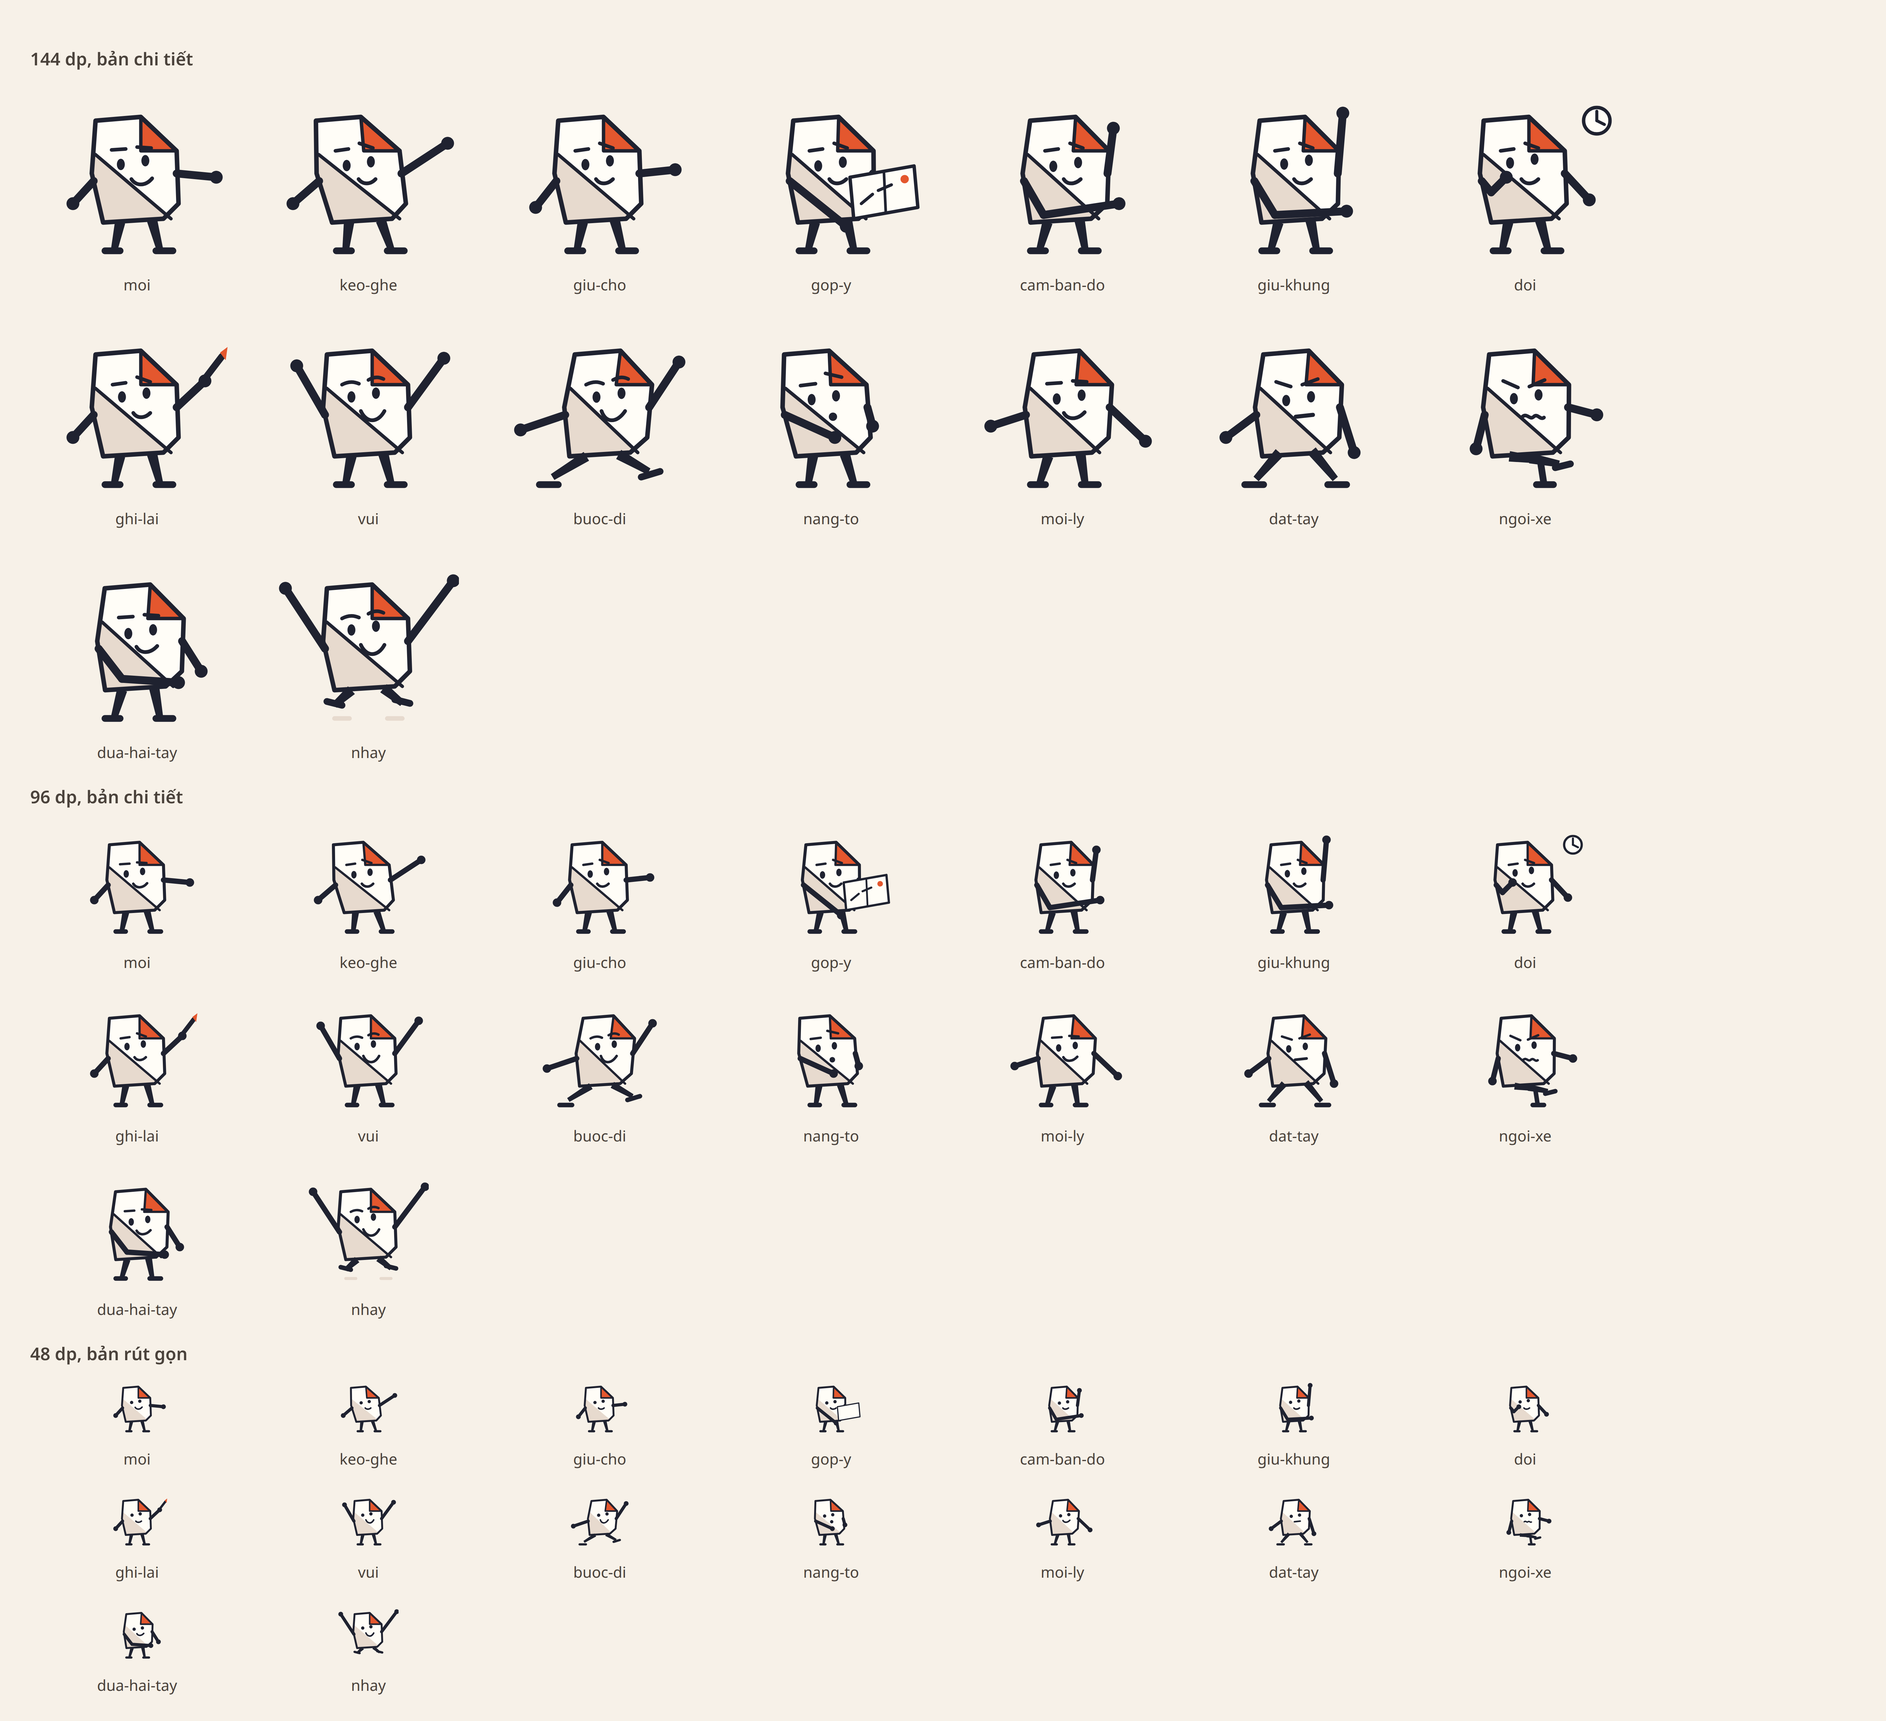
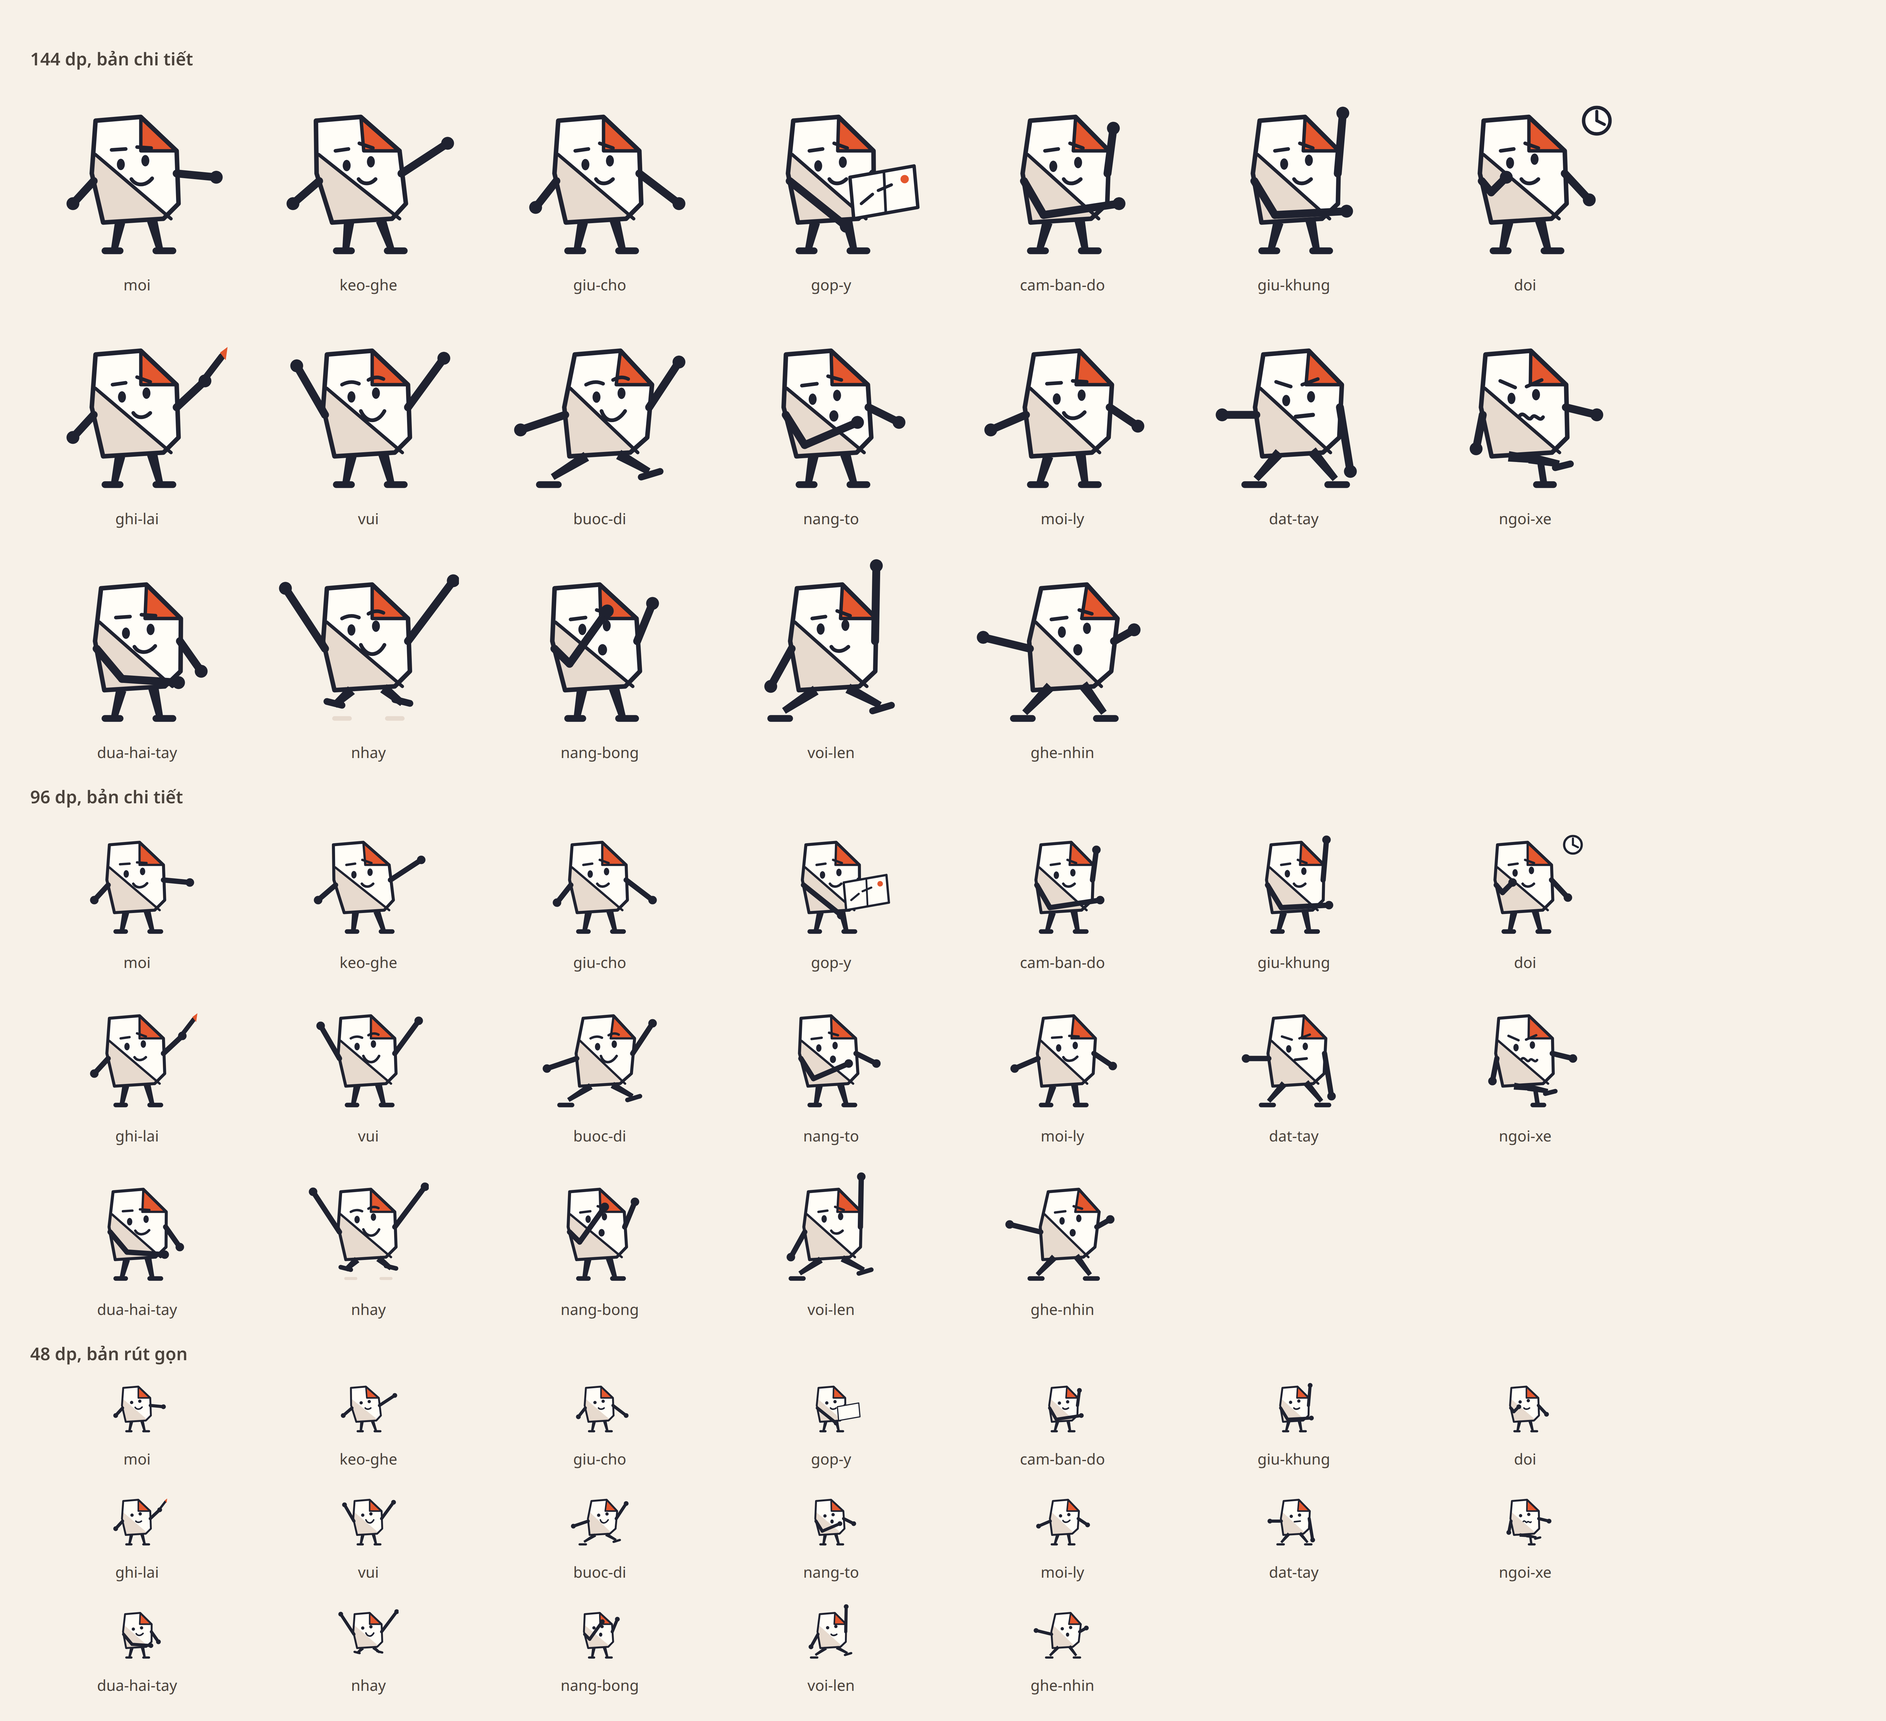
fix(art): ba sticker đọc sai — tay bắc ngang mặt, thẻ ngân hàng, và hai hình cùng một dáng
Lượt chấm mỹ thuật trong context mới trả `rebuild` cho ba hình. Mở ảnh ra nhìn
thì đúng cả ba, và cả ba đều là lỗi hình chứ không phải lỗi gu:

- **«Ăn gì?»**: cả hai tay chạy từ vai TRÁI thành một thanh mực bắc ngang thân
  và ngang miệng, còn bàn tay gần rơi vào trong bóng người. Vành tô lại nằm
  thấp hơn tay 4 đơn vị và rộng hơn khoảng tay 8, nên không tay nào chạm nó:
  ở 64dp không đọc ra «đang bưng tô». Nay `nang-to` có khuỷu như `dua-hai-tay`
  (chính pose bên cạnh đã ghi comment rằng chạy thẳng là sai), hai tay ngang
  nhau, và vành tô đặt ĐÚNG tầm tay, không rộng hơn khoảng tay.
- **«Trả tiền nè»**: hai tờ lệch 5 đơn vị dính thành một thẻ bo tròn, cộng
  vạch coral nằm ngang giữa thân — đó là ký hiệu dải từ, và trên nền tối nó
  đọc ra **thẻ ngân hàng**. Nặng hơn: cả hai bàn tay nằm TRONG khung tờ tiền
  và tờ tiền vẽ đè lên người, nên không có bàn tay nào hiện ra; còn lại một đồ
  vật, mà một đồ vật không ai đưa chính là thứ ADR-0021 cấm. Nay tờ tiền bắt
  đầu TỪ tay và chạy ra xa thân, mép gần gấp lại về phía người đưa, và người
  vẽ SAU tiền.
- **«OK, chốt!» giống hệt «Trả tiền nè» ở 64dp**: cùng độ nghiêng, cùng khoảng
  chân, cùng một mảng trắng cầm ngang hông phải; chỉ khác dấu bên trong. Đó
  đúng là «một pose rồi đổi đồ vật». Bàn tay ấn xuống lại bị tờ giấy vẽ đè.
  Nay `dat-tay` ấn xuống SÁT SÀN, tay kia chống ngược ra sau, và giấy vẽ trước
  người nên bàn tay mang nghĩa «chốt» hiện ra.
[…]

diff --git a/apps/mobile/src/rudi/art/nep.ts b/apps/mobile/src/rudi/art/nep.ts
@@ -40,6 +40,12 @@ export const POSE_NEP = [
   "ngoi-xe",
   "dua-hai-tay",
   "nhay",
+  // 09/09 finish review: three scenes had reused an existing pose beside a
+  // different rectangle, which is the one thing the brief forbade. These are
+  // the bodies that make them different situations.
+  "nang-bong",
+  "voi-len",
+  "ghe-nhin",
 ] as const;
 export type PoseNep = (typeof POSE_NEP)[number];
 
@@ -100,6 +106,12 @@ const TU_THE: Record<PoseNep, { nghieng: number; nhin: readonly [number, number]
   "dua-hai-tay": { nghieng: 3, nhin: [1.2, 0.8], bieuCam: "nhuong", dang: "dung" },
   // Both feet off the ground.
   nhay: { nghieng: 0, nhin: [0, -0.9], bieuCam: "hao-hung", dang: "nhun" },
+  // Holding something light up in front of the face and looking into it.
+  "nang-bong": { nghieng: -2, nhin: [1.1, -1.2], bieuCam: "hoi", dang: "dung" },
+  // Reaching up for a line overhead, weight on the front foot.
+  "voi-len": { nghieng: 4, nhin: [0.8, -1.4], bieuCam: "binh-than", dang: "buoc" },
+  // Bending sideways to look through something narrow.
+  "ghe-nhin": { nghieng: 11, nhin: [1.6, 0.2], bieuCam: "hoi", dang: "chong" },
 };
 
 /** The feet stand on this line of the 96-box; a scene puts its floor here. */
@@ -225,7 +237,9 @@ export function hinhNep(pose: string, tuyChon: TuyChonNep = {}): LopVe[] {
         // One far up, one level: the shape of «ơ?».
         return [
           { d: netGay([S(34, 38.5), S(42, 37.5)]), mau: "muc", net: w },
-          { d: netGay([S(47.5, 32), S(56, 34)]), mau: "muc", net: w },
+          // Kept clear of the coral fold (H..G..Bp): a brow drawn across the
+          // corner puts a black bar through the identity mark.
+          { d: netGay([S(48, 33.5), S(55, 35.5)]), mau: "muc", net: w },
         ];
       case "quyet":
         // Both lowered toward the middle: concentration, not anger.
@@ -353,10 +367,11 @@ export function hinhNep(pose: string, tuyChon: TuyChonNep = {}): LopVe[] {
       tuThe = [...tay(R, P(90, 34)), ...tay(L, P(8, 66))];
       break;
     case "giu-cho":
-      // Keeping a seat: a hand rests on the rail of the chair beside it
-      // (x 88, at chest height), the other arm at rest, looking across to
-      // the seat still free.
-      tuThe = [...tay(R, P(88, 48)), ...tay(L, P(14, 68))];
+      // Keeping a seat: the far hand reaches ACROSS and DOWN, to box (90, 66),
+      // where a table top or a rail is; the near arm rests. It used to stop at
+      // chest height, which left the gesture ending in mid-air once the figure
+      // sat down at a table (finish review 09/09).
+      tuThe = [...tay(R, P(90, 66)), ...tay(L, P(14, 68))];
       break;
     case "gop-y": {
       // Reading a small folded route map held out to the right.
@@ -424,30 +439,37 @@ export function hinhNep(pose: string, tuyChon: TuyChonNep = {}): LopVe[] {
       // small flag at box (90, 26); the near arm swings back behind the body.
       tuThe = [...tay(R, P(90, 26)), ...tay(L, P(6, 62))];
       break;
-    case "nang-to":
-      // Both hands cradle something at chest height in front, box (64, 62):
-      // an empty bowl, held up to ask what goes in it.
-      tuThe = [...tay(R, P(88, 56)), ...tay(L, P(66, 60))];
+    case "nang-to": {
+      // Both hands cradle an empty bowl held out in front, at box (62, 58) and
+      // (84, 58) -- LEVEL, so a rim can rest on both. The near arm bends at an
+      // elbow for the same reason `dua-hai-tay` does: run it straight from the
+      // far shoulder and one capsule crosses the whole torso and the mouth,
+      // which is what the finish review saw at 64dp.
+      const khuyu = P(34, 70);
+      tuThe = [...tay(R, P(84, 58)), { d: vien(L, khuyu, wTay), mau: "muc" }, ...tay(khuyu, P(62, 58))];
       break;
+    }
     case "moi-ly":
-      // Offering: the far arm straightens out and DOWN to the near edge of the
-      // table at box (92, 68), where the sticker stands the cup, and the near
-      // arm stays back. The reach is what says «this one is for you».
+      // Offering: the far arm straightens out to box (88, 60), where the
+      // sticker stands the cup, and the near arm stays back. The reach is what
+      // says «this one is for you».
       tuThe = [...tay(R, P(88, 60)), ...tay(L, P(10, 62))];
       break;
     case "dat-tay":
-      // Concluding: the far arm goes straight down onto the sheet at box
-      // (80, 74) with the weight over it; the near arm hangs.
-      tuThe = [...tay(R, P(80, 74)), ...tay(L, P(12, 66))];
+      // Concluding: the far arm comes DOWN onto the sheet at box (78, 84),
+      // near the floor, and the near arm braces back. Pressing something down
+      // low is a different silhouette from holding something out at the waist;
+      // at 64dp the two used to be the same shape with a different mark in it.
+      tuThe = [...tay(R, P(78, 84)), ...tay(L, P(10, 54))];
       break;
     case "ngoi-xe":
       // Stuck: one hand still on the bar at box (86, 54), the other dropped.
       tuThe = [...tay(R, P(86, 54)), ...tay(L, P(22, 72))];
       break;
     case "dua-hai-tay": {
-      // Handing something over with both hands: the near arm bends at the
-      // elbow so the two hands meet in front, around box (76, 70), instead of
-      // one arm crossing the body.
+      // Handing something over with both hands: the far hand at box (82, 66),
+      // the near one at (70, 72) after an elbow, so the two meet in front
+      // instead of one arm crossing the body.
       const khuyu = P(40, 70);
       tuThe = [...tay(R, P(82, 66)), { d: vien(L, khuyu, wTay), mau: "muc" }, ...tay(khuyu, P(70, 72))];
       break;
@@ -456,6 +478,23 @@ export function hinhNep(pose: string, tuyChon: TuyChonNep = {}): LopVe[] {
       // Off the ground, arms wide and up: wider than `vui`, which keeps its
       // quieter raise for the scenes.
       tuThe = [...tay(L, P(4, 22)), ...tay(R, P(93, 18))];
+      break;
+    case "nang-bong": {
+      // A paper speech bubble held up at box (52, 34) and (76, 30): both hands
+      // under its lower edge, arms up rather than across.
+      const khuyu = P(32, 62);
+      tuThe = [...tay(R, P(76, 30)), { d: vien(L, khuyu, wTay), mau: "muc" }, ...tay(khuyu, P(52, 34))];
+      break;
+    }
+    case "voi-len":
+      // One arm straight up to a line overhead at box (72, 10); the other
+      // holds what is about to go on it, low at box (16, 74).
+      tuThe = [...tay(R, P(72, 10)), ...tay(L, P(16, 74))];
+      break;
+    case "ghe-nhin":
+      // Leaning sideways to look through a gap: the near hand braces on the
+      // thing at box (86, 44), the far arm goes back for balance.
+      tuThe = [...tay(R, P(86, 44)), ...tay(L, P(6, 48))];
       break;
     case "vui":
     default: {

diff --git a/apps/mobile/src/rudi/chat/sticker.ts b/apps/mobile/src/rudi/chat/sticker.ts
@@ -224,9 +224,12 @@ function diThoi(chiTiet: boolean): LopVe[] {
 /** «Ăn gì?»: an empty bowl held up in both hands, and a face that is asking. */
 function anGi(chiTiet: boolean): LopVe[] {
   const { nguoi, P } = dat("nang-to", 0.84, -2, chiTiet);
-  const [tx] = P(88, 56);
-  const [nx, ny] = P(66, 60);
-  const cx = (tx + nx) / 2, cy = ny + 4, r = 15;
+  const [tx, ty] = P(84, 58);
+  const [nx] = P(62, 58);
+  // The rim sits AT hand height and no wider than the two hands, so both of
+  // them are on it. It used to hang 4 units below and 8 units wider, which is
+  // «a bowl near a figure» rather than «a bowl being held».
+  const cx = (tx + nx) / 2, cy = ty, r = (tx - nx) / 2 + 3;
   const w = chiTiet ? 2.4 : 3;
   const to: LopVe[] = [
     { d: quatVe(cx, cy, r, 0, Math.PI), mau: "gap" },
@@ -239,7 +242,7 @@ function anGi(chiTiet: boolean): LopVe[] {
 /** «Cà phê không?»: the cup pushed across to whoever is being asked. */
 function caPheKhong(chiTiet: boolean): LopVe[] {
   const { nguoi, P } = dat("moi-ly", 0.78, -2, chiTiet);
-  const [hx, hy] = P(92, 68);
+  const [hx, hy] = P(88, 60);
   const w = chiTiet ? 2.4 : 3;
   const x = hx - 5, y = hy - 4, bw = 20, bh = 20;
   const ly: LopVe[] = [
@@ -253,17 +256,19 @@ function caPheKhong(chiTiet: boolean): LopVe[] {
 
 /** «OK, chốt!»: the mark being pressed down on the plan. Weight over the hand. */
 function okChot(chiTiet: boolean): LopVe[] {
-  const { nguoi, P } = dat("dat-tay", 0.78, -6, chiTiet);
-  const [hx, hy] = P(80, 74);
+  const { nguoi, P } = dat("dat-tay", 0.74, -3, chiTiet);
+  const [hx, hy] = P(78, 84);
   const w = chiTiet ? 2.2 : 2.8;
-  const to: [number, number][] = [[hx - 14, hy - 2], [hx + 26, hy - 6], [hx + 29, hy + 15], [hx - 11, hy + 19]];
+  const to: [number, number][] = [[hx - 16, hy - 10], [hx + 22, hy - 14], [hx + 25, hy + 2], [hx - 13, hy + 6]];
   const giay: LopVe[] = [
     { d: daGiacVe(to), mau: "giay" },
     { d: daGiacVe(to), mau: "muc", net: w },
     // The tick is being MADE, not printed: two strokes of the same pen.
-    { d: netGay([[hx + 4, hy + 6], [hx + 10, hy + 12], [hx + 22, hy - 1]]), mau: "gap", net: w * 1.7 },
+    { d: netGay([[hx + 3, hy - 5], [hx + 9, hy], [hx + 20, hy - 10]]), mau: "gap", net: w * 1.7 },
   ];
-  return [...nguoi, ...giay];
+  // Sheet first, THEN the figure: the hand that presses it has to be visible,
+  // or the gesture that carries «chốt» is behind the paper (finish review).
+  return [...giay, ...nguoi];
 }
 
 /** «Kẹt xe»: sitting on something that is not moving, one foot down. */
@@ -302,25 +307,28 @@ function traTienNe(chiTiet: boolean): LopVe[] {
   const [ax, ay] = P(82, 66);
   const [bx, by] = P(70, 72);
   const w = chiTiet ? 2.2 : 2.8;
-  const tor = (dx: number, dy: number): [number, number][] => [
-    [bx - 7 + dx, by - 10 + dy],
-    [ax + 18 + dx, ay - 13 + dy],
-    [ax + 20 + dx, ay + 2 + dy],
-    [bx - 5 + dx, by + 5 + dy],
-  ];
-  const truoc = tor(0, 5);
+  // The note starts AT the hands and runs away from the body, so both hands
+  // stay outside it and in front of it. The first version built the quad
+  // around the hand coordinates, so it swallowed them and painted over the
+  // figure: what was left was an object, and an object handed by nobody is the
+  // transaction artifact the ADR boundary rules out.
+  const tren: [number, number][] = [[ax + 1, ay - 9], [ax + 26, ay - 14], [ax + 28, ay - 1], [ax + 3, ay + 4]];
+  const duoi: [number, number][] = [[bx + 1, by - 5], [bx + 26, by - 10], [bx + 28, by + 3], [bx + 3, by + 8]];
+  const nep: [number, number][] = [tren[0], [tren[0][0] + 9, tren[0][1] - 1.6], [tren[3][0] + 9, tren[3][1] - 1.6], tren[3]];
   const tien: LopVe[] = [
-    // Two notes, offset. Not an envelope with a folded corner: that read as
-    // mail, which is the register the concept note ruled out. And no tick, no
-    // coin and no currency mark, because this is a person saying «here», not
-    // the system saying the money arrived.
-    { d: daGiacVe(tor(0, 0)), mau: "giay" },
-    { d: daGiacVe(tor(0, 0)), mau: "muc", net: w },
-    { d: daGiacVe(truoc), mau: "giay" },
-    { d: daGiacVe(truoc), mau: "muc", net: w },
-    { d: netGay([[truoc[0][0] + 4, truoc[0][1] + 4], [truoc[1][0] - 4, truoc[1][1] + 4]]), mau: "gap", net: w * 1.4 },
+    // Two notes, fanned, with the near one's short edge FOLDED back toward the
+    // giver. Deliberately not a centred horizontal band across a rounded card:
+    // that is the magnetic-stripe glyph, and on the dark scheme it read as a
+    // bank card. No tick, no coin, no currency mark either.
+    { d: daGiacVe(duoi), mau: "giay" },
+    { d: daGiacVe(duoi), mau: "muc", net: w },
+    { d: daGiacVe(tren), mau: "giay" },
+    { d: daGiacVe(tren), mau: "muc", net: w },
+    { d: daGiacVe(nep), mau: "gap" },
+    { d: daGiacVe(nep), mau: "muc", net: w },
   ];
-  return [...nguoi, ...tien];
+  // Notes first, figure second: the hands must be seen giving them.
+  return [...tien, ...nguoi];
 }
 
 /** «Tuyệt vời»: both feet off the ground, and one burst. */
@@ -359,7 +367,8 @@ const HINH_KHAC: LopSticker[] = [
 
 /**
  * A second reading for the small tile: an optical size, not a scale-down.
- * Only the shapes that have one appear here; the rest are legible as drawn.
+ * Since 09/09 ALL eight have one: the tray draws a second, simpler drawing
+ * rather than the 120dp one shrunk, so there is no fallback left to describe.
  */
 const HINH_RUT_GON: Record<StickerId, LopSticker[]> = {
   "di-thoi": tuLopVe(diThoi(false)),
